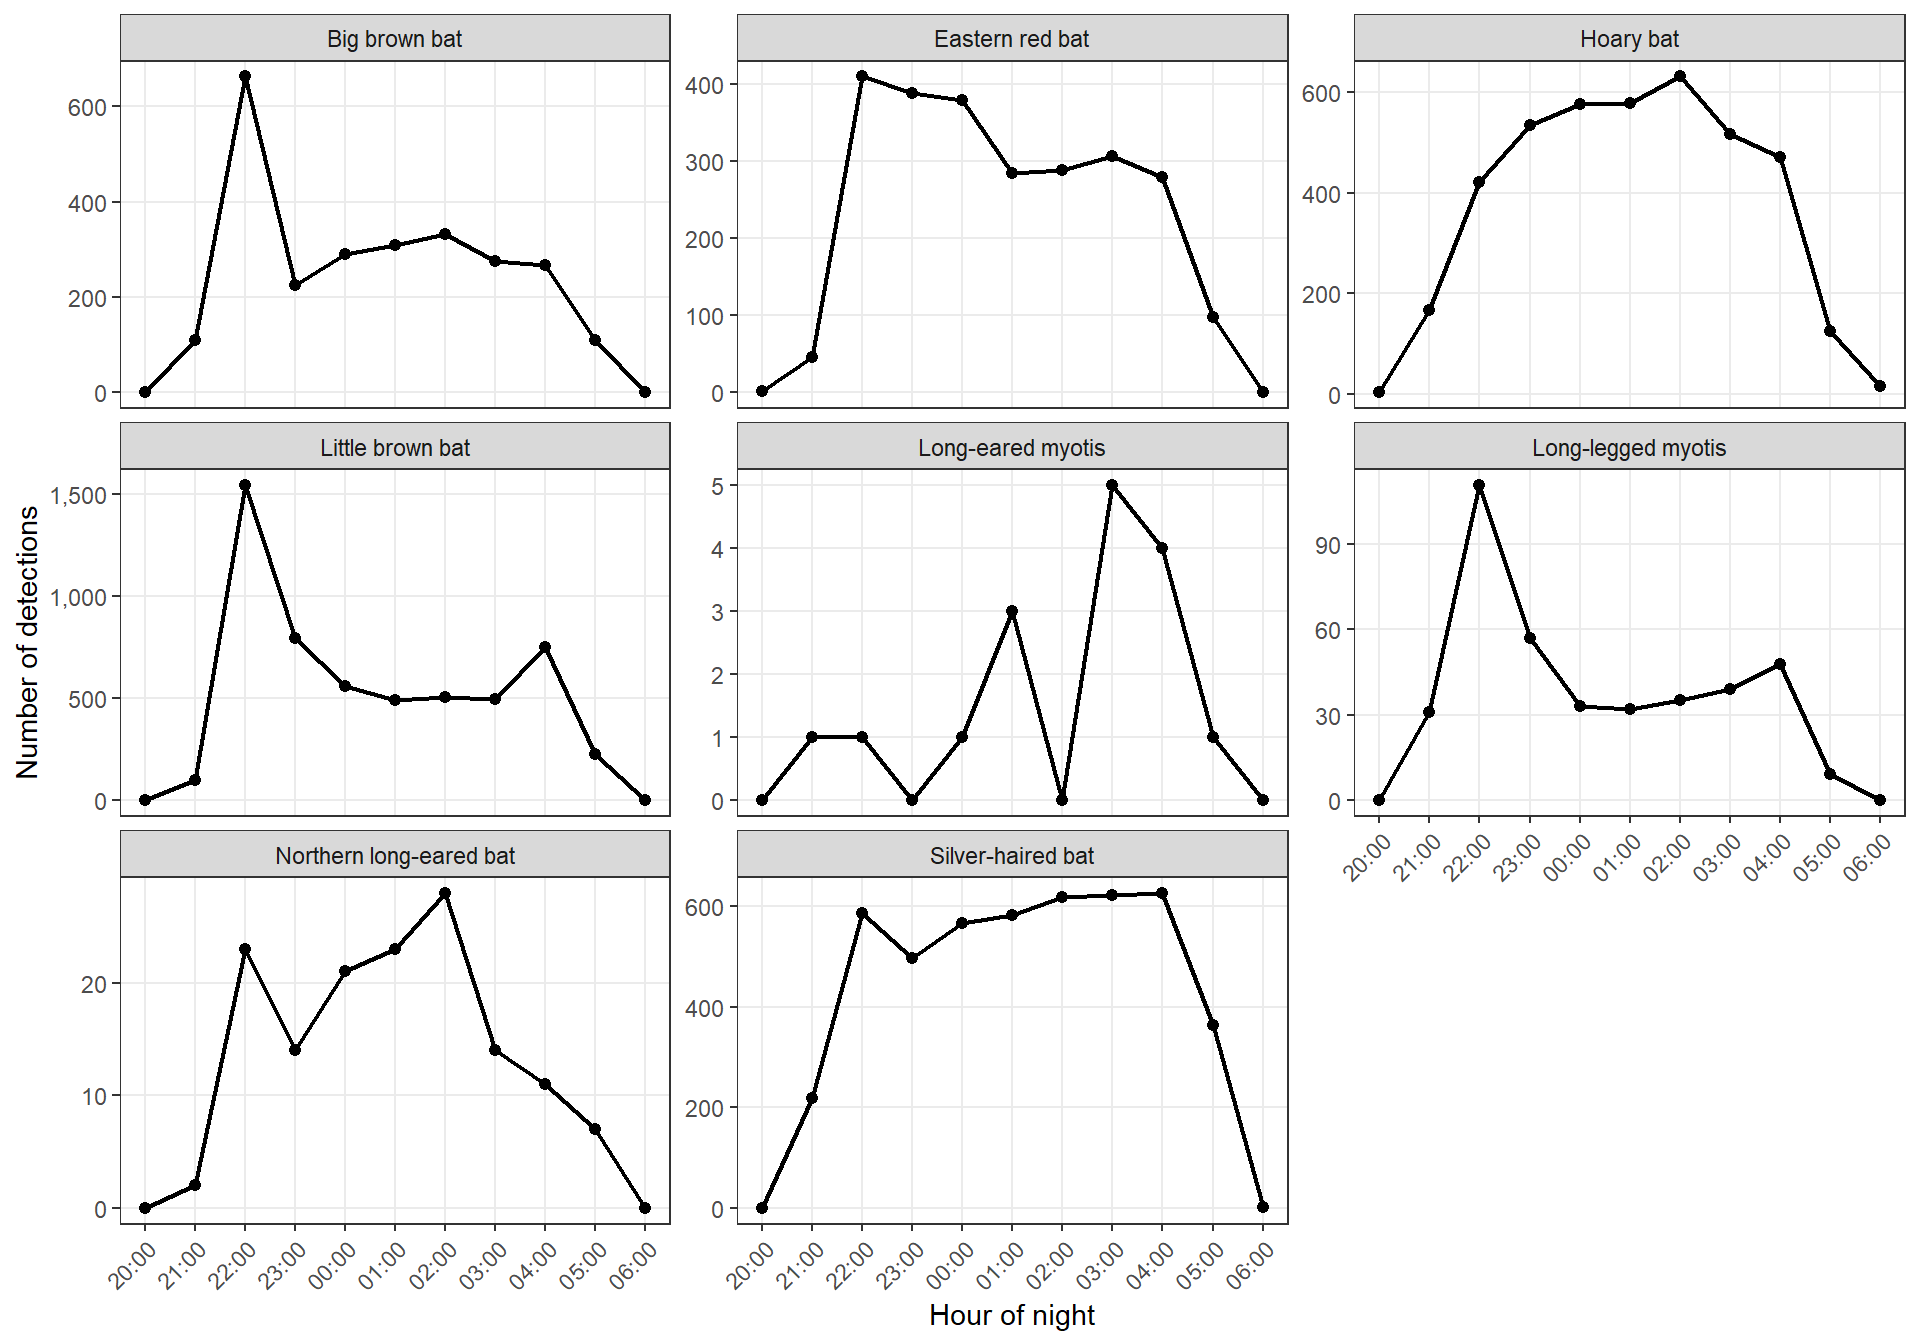
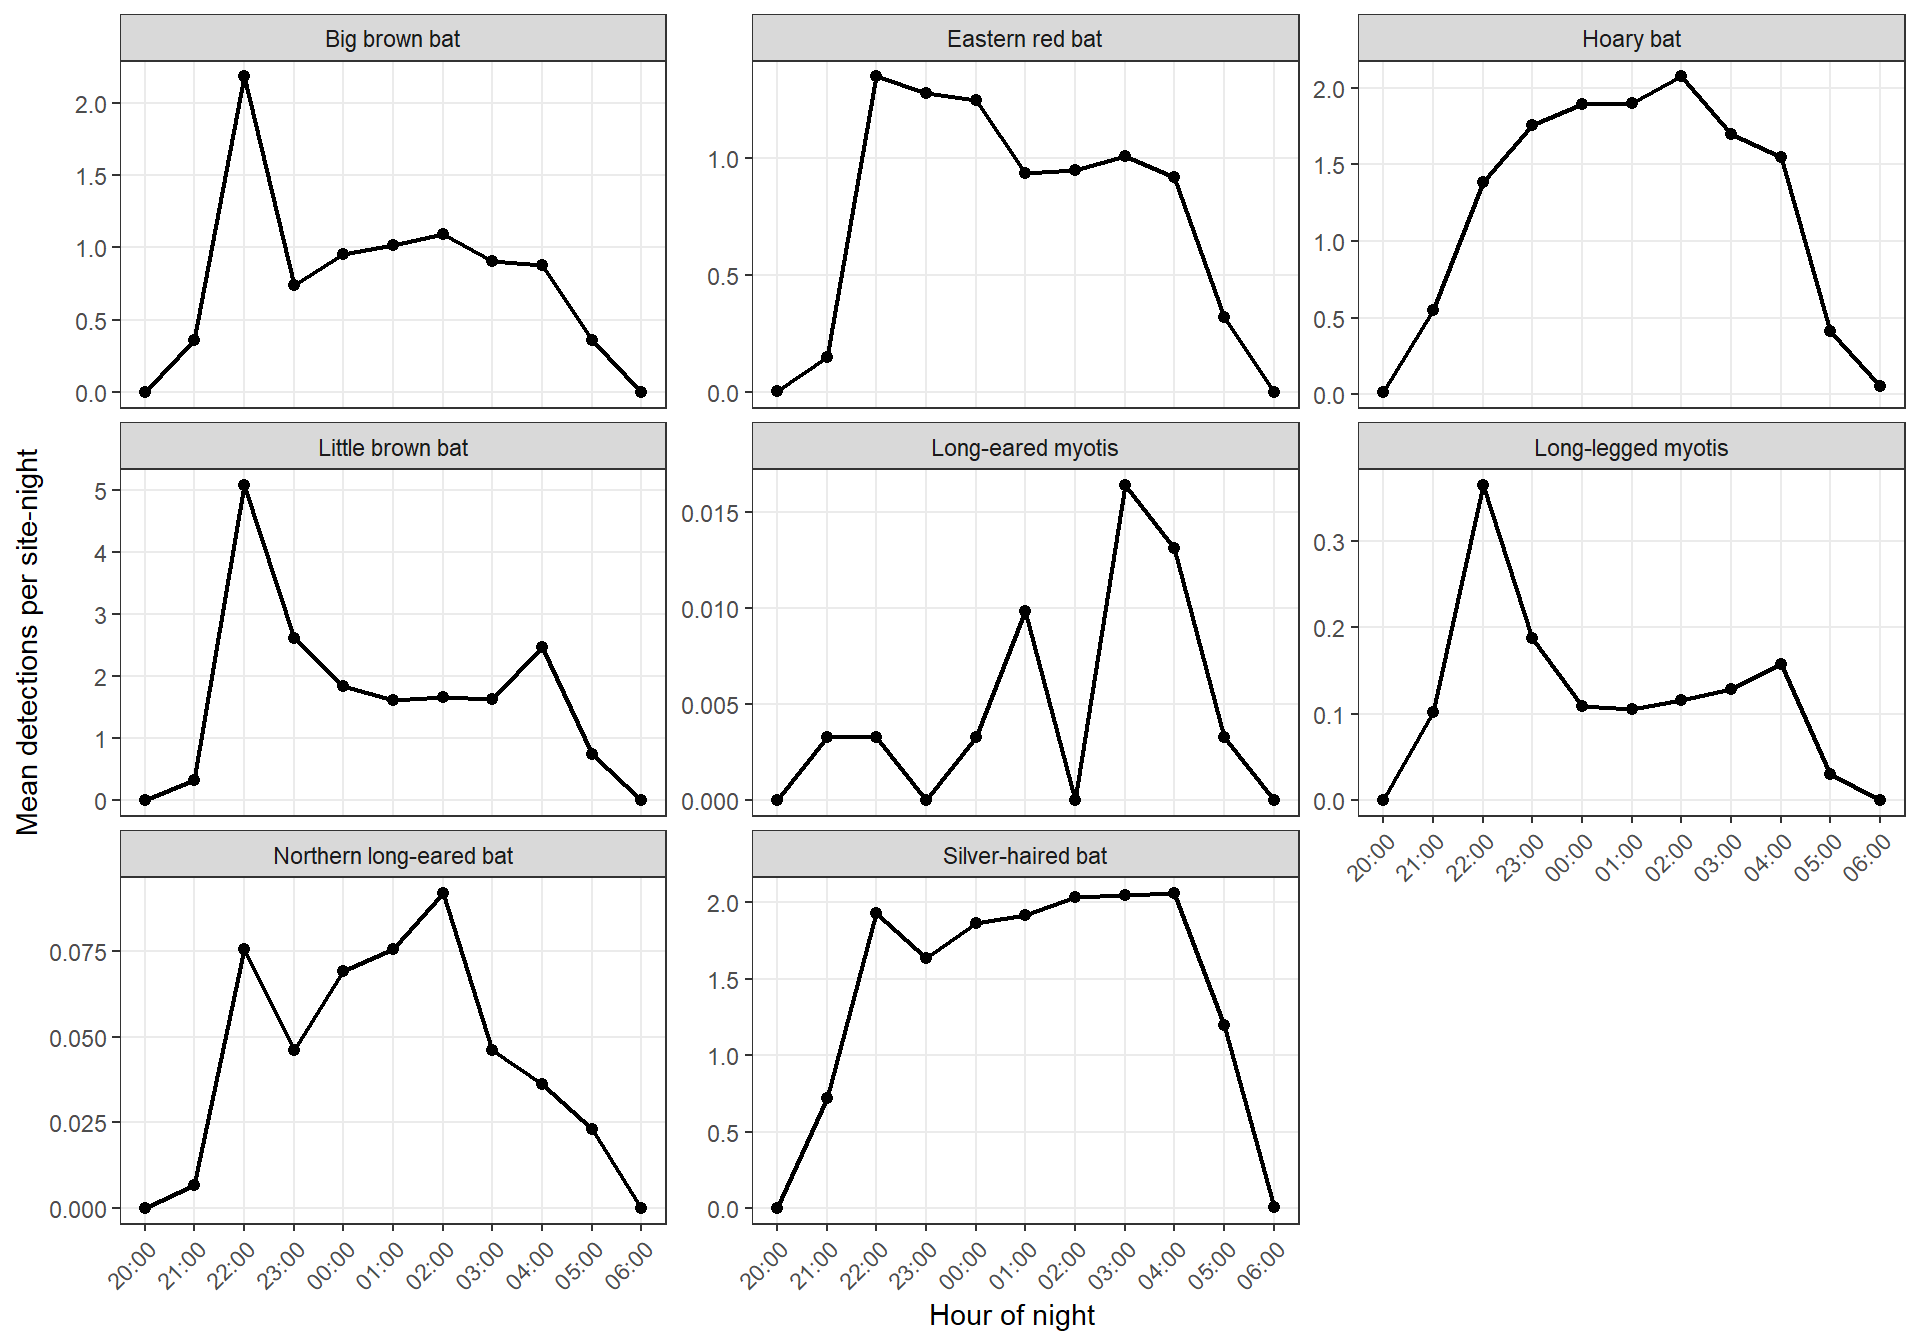
Change fig 3 to average and add label to the map

diff --git a/bat_report_2024.html b/bat_report_2024.html
@@ -408,20 +408,96 @@ Figure&nbsp;2: Nightly variation in bat detections among the 15 monitoring sites
 </div>
 </div>
 <p>Species differed in their activity patterns through the night. Little brown bat and big brown bat showed pronounced peaks at approximately 22:00. Eastern red bat activity was highest between 22:00 and midnight, whereas hoary bat activity peaked later, at approximately 02:00. Silver-haired bat activity remained relatively high from midnight until approximately 04:00. Activity patterns for less frequently detected species were more variable because of the smaller number of detections (Figure 3).</p>
-<div class="cell">
-<div class="cell-output-display">
-<div id="fig-night-species" class="quarto-float quarto-figure quarto-figure-center anchored">
-<figure class="quarto-float quarto-float-fig figure">
-<div aria-describedby="fig-night-species-caption-0ceaefa1-69ba-4598-a22c-09a6ac19f8ca">
-<a href="bat_report_2024_files/figure-html/fig-night-species-1.png" class="lightbox" data-gallery="quarto-lightbox-gallery-6" title="Figure&nbsp;3: Hourly bat activity patterns by species between 20:00 and 06:00. Each panel shows the number of detections recorded by hour for each species."><img src="bat_report_2024_files/figure-html/fig-night-species-1.png" class="img-fluid figure-img" width="960"></a>
-</div>
-<figcaption class="quarto-float-caption-bottom quarto-float-caption quarto-float-fig" id="fig-night-species-caption-0ceaefa1-69ba-4598-a22c-09a6ac19f8ca">
-Figure&nbsp;3: Hourly bat activity patterns by species between 20:00 and 06:00. Each panel shows the number of detections recorded by hour for each species.
-</figcaption>
-</figure>
-</div>
-</div>
-</div>
+<pre class="{#| label: fig-night-species}"><code>#| fig-cap: "Mean hourly bat activity by species between 20:00 and 06:00. Values represent the average number of detections per site-night."
+#| fig-width: 10
+#| fig-height: 7
+#| code-summary: "Show hourly activity code"
+#| echo: false
+
+night_hour_key &lt;- tibble(
+  hour = c(20:23, 0:6),
+  hour_plot = 20:30,
+  hour_label = c(
+    "20:00", "21:00", "22:00", "23:00",
+    "00:00", "01:00", "02:00", "03:00",
+    "04:00", "05:00", "06:00"
+  )
+)
+
+sampled_site_nights &lt;- bat_site %&gt;%
+  distinct(location, night)
+
+species_hour_grid &lt;- crossing(
+  species_clean = bat_site %&gt;%
+    filter(species_confidence == "Species-level ID") %&gt;%
+    distinct(species_clean) %&gt;%
+    pull(species_clean),
+  hour = night_hour_key$hour,
+  sampled_site_nights
+)
+
+hourly_species &lt;- bat_site %&gt;%
+  filter(
+    species_confidence == "Species-level ID",
+    hour %in% night_hour_key$hour
+  ) %&gt;%
+  count(
+    location,
+    night,
+    species_clean,
+    hour,
+    name = "n"
+  ) %&gt;%
+  right_join(
+    species_hour_grid,
+    by = c("location", "night", "species_clean", "hour")
+  ) %&gt;%
+  mutate(
+    n = replace_na(n, 0L)
+  ) %&gt;%
+  group_by(species_clean, hour) %&gt;%
+  summarise(
+    mean_detections = mean(n),
+    .groups = "drop"
+  ) %&gt;%
+  left_join(
+    night_hour_key,
+    by = "hour"
+  ) %&gt;%
+  arrange(
+    species_clean,
+    hour_plot
+  )
+
+p_hourly_species &lt;- ggplot(
+  hourly_species,
+  aes(
+    x = hour_plot,
+    y = mean_detections
+  )
+) +
+  geom_line(linewidth = 0.8) +
+  geom_point(size = 1.8) +
+  facet_wrap(
+    ~species_clean,
+    scales = "free_y"
+  ) +
+  scale_x_continuous(
+    breaks = night_hour_key$hour_plot,
+    labels = night_hour_key$hour_label
+  ) +
+  scale_y_continuous(labels = comma) +
+  labs(
+    x = "Hour of night",
+    y = "Mean detections per site-night"
+  ) +
+  theme_bw() +
+  theme(
+    panel.grid.minor = element_blank(),
+    axis.text.x = element_text(angle = 45, hjust = 1)
+  )
+
+p_hourly_species</code></pre>
 </section>
 <section id="concluding-remarks" class="level2">
 <h2 class="anchored" data-anchor-id="concluding-remarks">Concluding Remarks</h2>